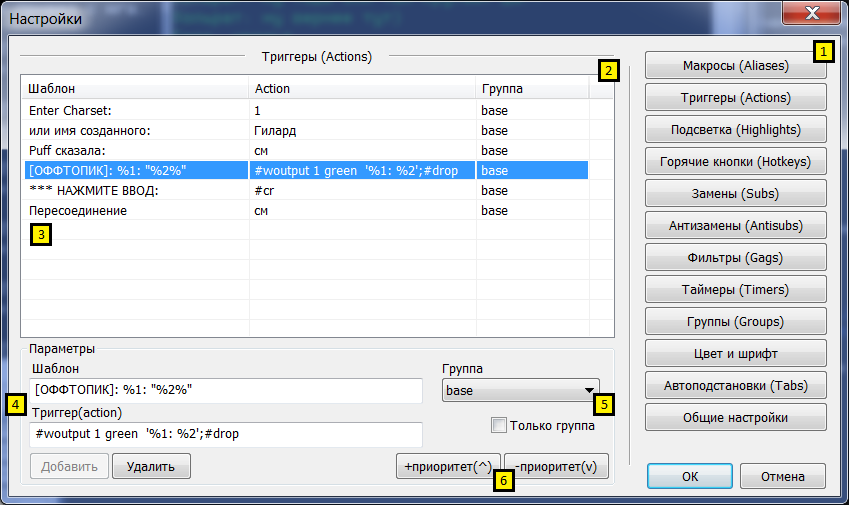
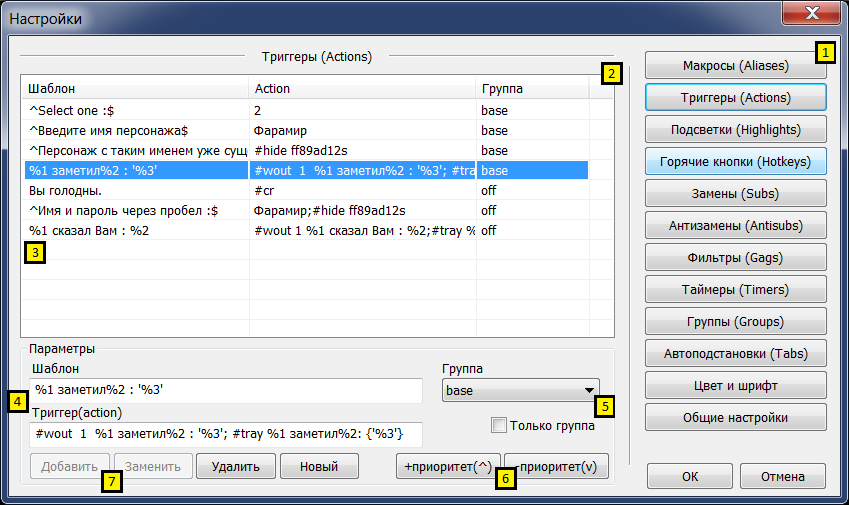
Поправлена справка + новый картинки в справке.

diff --git a/mudclient/src/stdafx.h b/mudclient/src/stdafx.h
@@ -1,6 +1,6 @@
 #pragma once
 
-#define TORTILLA_VERSION L"0.98b11"
+#define TORTILLA_VERSION L"0.98beta2"
 
 #ifndef _UNICODE
 #error("Support only unicode version!")
